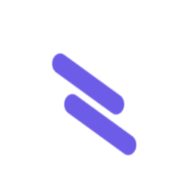
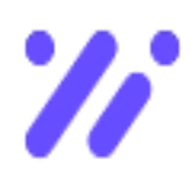
set a-reset, button-reset, tab_accessibility

Changed region(s): [[0.125, 0.125, 0.8125, 0.8438], [0.75, 0.125, 0.9375, 0.375]]

diff --git a/src/assets/styles/global.css b/src/assets/styles/global.css
@@ -1,10 +1,26 @@
 @import "./reset.css";
 
+:root {
+  /* Primary Colors */
+  --primary-purple-dark: #664DFF;
+  --primary-purple-light: #A1B0FC;
+
+  /* Neutral Colors */
+  --neutral-white: #FFFFFF;
+  --neutral-dark-blue: #0A1223;
+  --neutral-deep-blue: #0E1527;
+  --neutral-navy: #182542;
+
+  /* Accent Colors */
+  --accent-yellow: #FFC107; /* 예시로 추가한 것 */
+}
+
 #root {
   height: 100vh;
-  background-color: purple;
+  background-color: var(--neutral-dark-blue);
   display: grid;
   grid-template-rows: 60px 1fr;
+  color: var(--neutral-white);
 }
 
 .dashboard {
@@ -13,9 +29,26 @@
 }
 
 header {
-  background-color: yellow;
+  /* background-color: yellow; */
 }
 
 nav {
-  background-color: brown;
+  /* background-color: brown; */
+}
+
+.button-reset {
+  cursor: pointer;
+  font: inherit;
+  background: none; /* 배경을 없애거나 커스터마이즈 */
+  border: none; /* 테두리 없애기 */
+  outline: none; /* 포커스를 받을 때 기본 외곽선 없애기 (원한다면) */
+}
+
+button:focus {
+  outline: 2px solid #fff; /* 포커스를 받을 때 파란색 외곽선으로 표시 */
+}
+
+.a-reset {
+  text-decoration: none;  /* 밑줄 제거 */
+  color: inherit;         /* 텍스트 색상 상속 (부모 요소의 색상을 따르게 설정) */
 }

diff --git a/src/components/Header/Header.jsx b/src/components/Header/Header.jsx
@@ -1,11 +1,16 @@
-import logo from "@assets/images/logo_48.png"
+import logo from "@assets/images/logo.png"
 import styles from "@components/Header/Header.module.css"
 export default function Header() {
   return(
     <>
       <header className={`${styles.header} header`}>
-        <h1>CoinWise</h1>
-        <img src={logo} alt="logo" />
+        <a className="a-reset" href="#">
+          <div className={`${styles.logoContainer} logo-container`}>
+            <img src={logo} alt="CoinWise logo" />
+            <h1 className={`${styles.header__title} header__title`}>CoinWise</h1>
+          </div>
+        </a>
+        <button className="theme-toggle button-reset">🌙</button>
       </header>
     </>
   )

diff --git a/index.html b/index.html
@@ -8,9 +8,8 @@
     <link rel="apple-touch-icon" sizes="180x180" href="/apple-touch-icon.png">
     <link rel="icon" type="image/png" sizes="192x192" href="/android-chrome-192x192.png">
     <link rel="icon" type="image/png" sizes="512x512" href="./public/android-chrome-512x512.png">
-    <link rel="stylesheet" href="./src/assets/styles/global.css">
-    <meta name="viewport" content="width=device-width, initial-scale=1.0" />
     <meta name="description" content="this website shows crypto information">
+    <meta name="viewport" content="width=device-width, initial-scale=1.0" />
     <title>Crypto</title>
   </head>
   <body>

diff --git a/src/components/Header/Header.module.css b/src/components/Header/Header.module.css
@@ -1,4 +1,30 @@
 .header {
   display: flex;
+  justify-content: space-between;
+  padding: 0 30px 0 30px;
+}
+.logoContainer {
+  display: flex;
+  align-items: center;
+}
+.header__title {
+  font-size:large;
+  font-weight: 600;
 }
 
+/* button {
+  cursor: pointer;
+  font: inherit;
+  background: none; 
+  border: none; 
+  outline: none; 
+}
+
+button:focus {
+  outline: 2px solid #fff; 
+}
+
+a {
+  text-decoration: none;  
+  color: inherit;         
+} */

diff --git a/src/components/Sidebar/Sidebar.jsx b/src/components/Sidebar/Sidebar.jsx
@@ -6,7 +6,7 @@ export default function Sidebar() {
       <nav className="dashboard__nav">
         <ul className={`${styles.ul} dashboard__nav-list`}>
           <li className="dashboard__nav-item">
-            <Link to="/">Dashboard</Link>
+            <Link className="dashboard__nav-link" to="/">Dashboard</Link>
           </li>
           <li>
             <Link to="/profile">profile</Link>

diff --git a/src/App.jsx b/src/App.jsx
@@ -4,6 +4,7 @@ import {BrowserRouter as Router, Routes, Route, Link } from "react-router-dom";
 import Dashboard from "@components/Main/Dashboard";
 import Profile from "@components/Main/Profile";
 import Trade from "@components/Main/Trade";
+
 function App() {
   return (
     <Router>

diff --git a/src/main.jsx b/src/main.jsx
@@ -1,7 +1,7 @@
 import { StrictMode } from 'react'
 import { createRoot } from 'react-dom/client'
 import App from './App.jsx'
-
+import './assets/styles/global.css';
 createRoot(document.getElementById('root')).render(
   <StrictMode>
     <App />

diff --git a/src/components/Sidebar/Sidebar.module.css b/src/components/Sidebar/Sidebar.module.css
@@ -3,3 +3,6 @@
   flex-direction: column;
 }
 
+.dashboard__nav-link {
+  
+}
